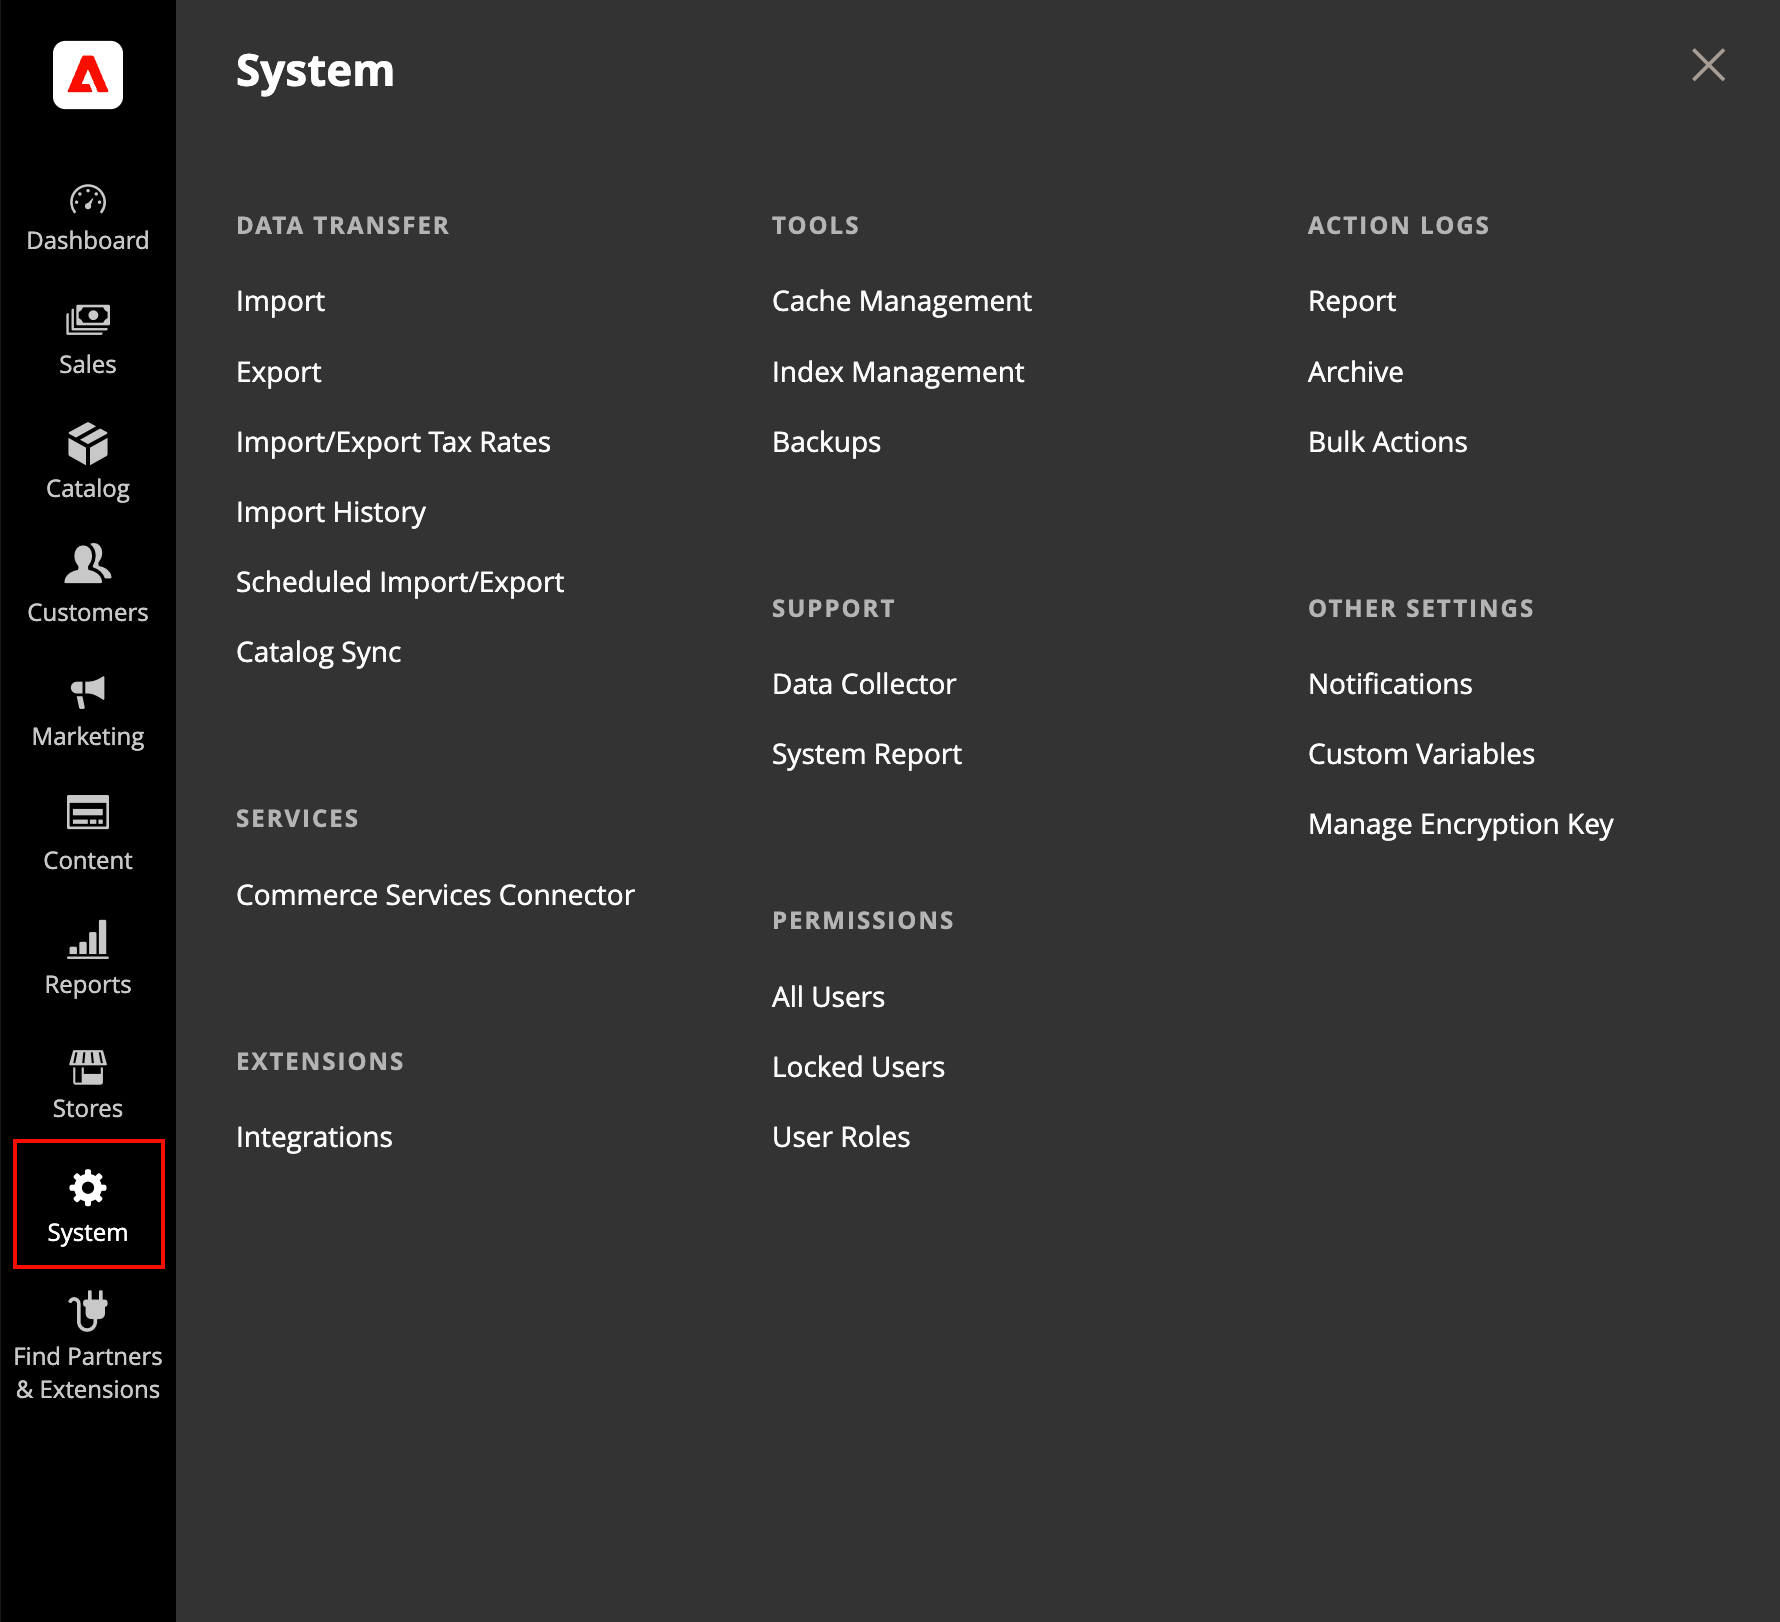
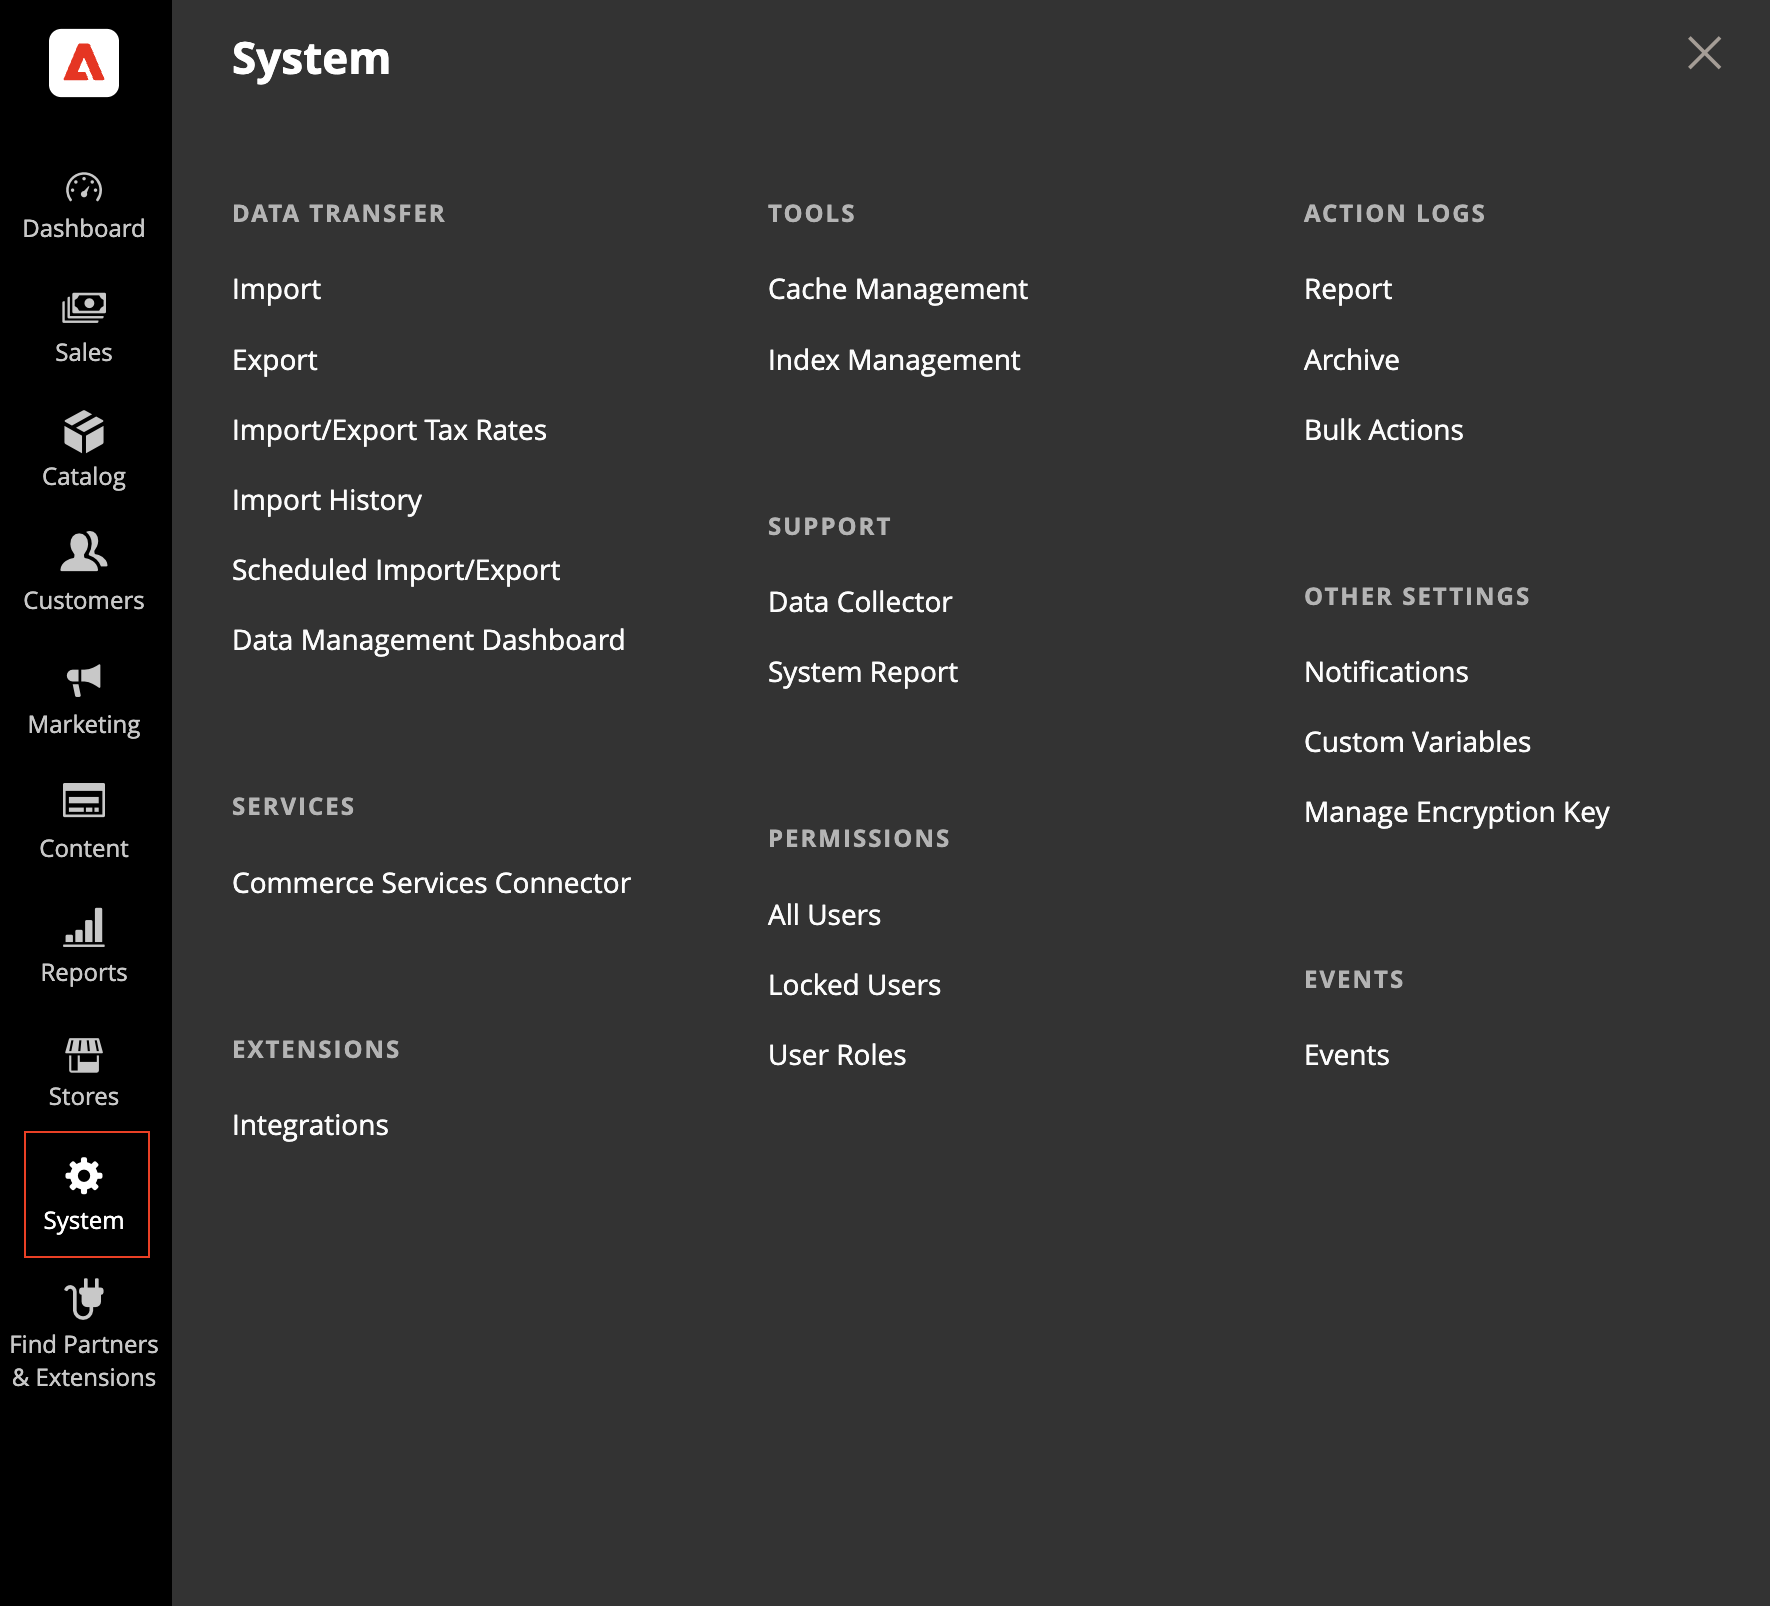
Created new topic.

diff --git a/help/systems/data-dashboard.md b/help/systems/data-dashboard.md
@@ -1,0 +1,34 @@
+---
+title: Data Management Dashboard
+description: Learn about the Data Management Dashboard
+feature: Products, Customers, Data Import/Export
+---
+# Data Management Dashboard
+
+The Data Management Dashboard provides insight into data streams for Adobe Commerce SaasS products. Users of [!DNL Live Search], [!DNL Product Recommendations], and [!DNL Catalog Service] can view product sync statuses and resync data from a single dashboard.
+
+The Data Management Dashboard is located at *System* > Data Transfer > *Data Management Dashboard*.
+
+## Settings
+
+The Settings button on the right side of the page opens the [[!DNL Catalog Sync]](https://experienceleague.adobe.com/docs/commerce-merchant-services/user-guides/data-services/catalog-sync.html) settings dialog.
+
+Normally, the [!DNL Catalog Sync] process runs automatically, once an hour.
+
+Re-syncing catalog data forces the service to refetch data from the Commerce database, ensuring that the latest changes are reflected in the service and on your site. Use this button if you have made several product changes and you need to have those changes updated before the normal automatic sync process. 
+
+## Sync Status
+
+The Sync status reports the number of products that have been synced within the last three hours. If you make infrequent updates to your catalog, this value will frequently be zero. Press the Refresh button to refresh the count.
+
+## Syncing Catalog
+
+This reflects the total number of catalog products available to the service.
+
+The [!DNL Catalog Service] dashboard reflects the total number of products in the catalog available to the service. This is generally all products in the Commerce database. 
+
+The Product Recommendations and Live Search dashboards display the total number of ["searchable"](https://experienceleague.adobe.com/docs/commerce-admin/catalog/catalog/search/search.html) products. If some products are not set to be searchable, this would account for the difference in product totals between [!DNL Product Recommendations] and [!DNL Live Search], and [!DNL Catalog Service]. Since [!DNL Product Recommendations] and Live Search use the same parameters, the number of products displayed should be the same.
+
+## Synced Catalog Products
+
+The Synced Catalog Products table provides details about the products in the SaaS index. By default, this table is sorted by 'Last Updated'.

diff --git a/help/systems/TOC.md b/help/systems/TOC.md
@@ -42,6 +42,7 @@ feature: System
     - [Import downloadable products](data-transfer-downloadable-products.md)
     - [Import tier price data](data-import-price-tier.md)
   - [Scheduled import and export](data-scheduled-import-export.md)
+  - [Data Management Dashboard](data-dashboard.md)
 - Action logs {#action-logs}
   - [Overview](action-log.md)
   - [Action logs report](action-log-report.md)
